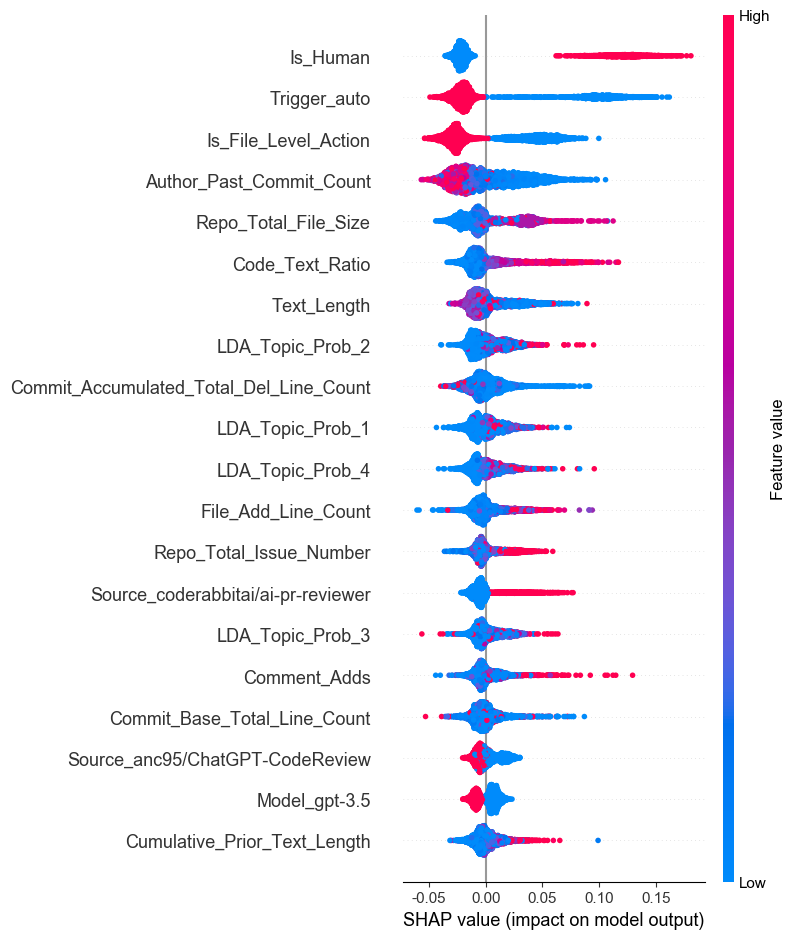
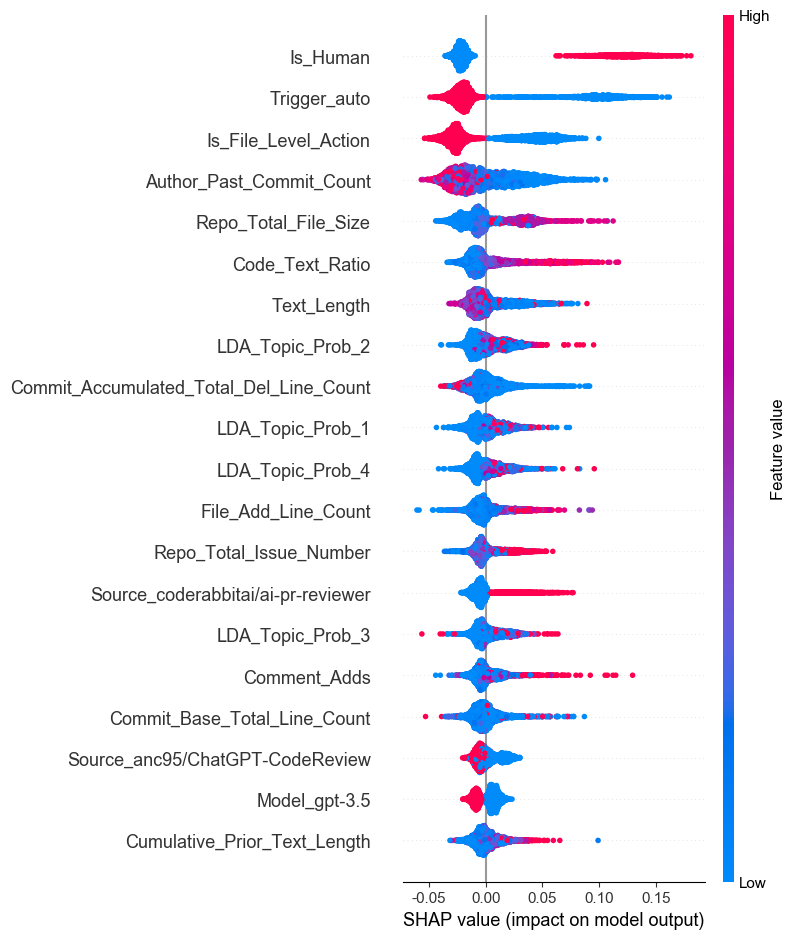
Update AI-Specific Model analysis

diff --git a/address_feature_matrix/build_features.py b/address_feature_matrix/build_features.py
@@ -56,8 +56,10 @@ FEATURE_GROUP_MAPPING = {
         'Source_mattzcarey/code-review-gpt',
         'Trigger_auto',
         'Trigger_manual',
+        'Trigger_Is_Manual',
         'Model_gpt-3.5',
         'Model_gpt-4',
+        'Model_Is_GPT4',
     ]
 }
 
@@ -173,32 +175,48 @@ def encode_trigger_mode(trigger_str):
     else:
         return -1
 
-def build_action_features(df: pd.DataFrame) -> pd.DataFrame:
+def map_model(model):
+    if isinstance(model, str):
+        if model.startswith("gpt-3.5"):
+            return "gpt-3.5"
+        elif model.startswith("gpt-4"):
+            return "gpt-4"
+        elif model == "unknown":
+            return "unknown"
+    return "NA"
+
+def build_action_features(df: pd.DataFrame, use_binary: bool = False) -> pd.DataFrame:
     # 1. Trigger mode one-hot encoding.
-    trigger_encoded = pd.get_dummies(df["Trigger_Mode"].fillna("NA"), prefix="Trigger")
-    # Remove the Trigger_human column (if it exists).
-    if "Trigger_human" in trigger_encoded.columns:
-        trigger_encoded = trigger_encoded.drop(columns=["Trigger_human"])
+    if use_binary:
+        # Binary Mode：0=auto, 1=manual
+        trigger_encoded = (df["Trigger_Mode"] == "manual").astype(int).to_frame(name="Trigger_Is_Manual")
+        print("✅ Trigger Mode: Apply binary conversion (Trigger_Is_Manual)")
+    else:
+        # One-hot 模式：原始逻辑
+        trigger_encoded = pd.get_dummies(df["Trigger_Mode"].fillna("NA"), prefix="Trigger")
+        # Remove the Trigger_human column (if it exists).
+        if "Trigger_human" in trigger_encoded.columns:
+            trigger_encoded = trigger_encoded.drop(columns=["Trigger_human"])
+        print("ℹ Trigger Mode: Apply one-hot encoding")
 
-    # 2. Model configuration one-hot encoding (normalized to gpt-3.5, gpt-4, unknown, NA).
-    def map_model(model):
-        if isinstance(model, str):
-            if model.startswith("gpt-3.5"):
-                return "gpt-3.5"
-            elif model.startswith("gpt-4"):
-                return "gpt-4"
-            elif model == "unknown":
-                return "unknown"
-        return "NA"
 
-    model_group = df["Model_Configured"].apply(map_model)
-    model_encoded = pd.get_dummies(model_group, prefix="Model")
-    # Remove NA (overlaps with Is_Human).
-    if "Model_NA" in model_encoded.columns:
-        model_encoded = model_encoded.drop(columns=["Model_NA"])
-    # Remove NA (overlaps with Is_Human).
-    if "Model_unknown" in model_encoded.columns:
-        model_encoded = model_encoded.drop(columns=["Model_unknown"])
+    # ---- Model Configuration 特征 ----
+    if use_binary:
+        # Binary Mode：Perform 0/1 conversion based solely on mapped gpt-3.5/gpt-4
+        model_group = df["Model_Configured"].apply(map_model)
+        model_encoded = model_group.apply(lambda x: 1 if x == "gpt-4" else 0).to_frame(name="Model_Is_GPT4")
+        print("✅ Model Config: Apply binary conversion (Model_Is_GPT4)")
+    else:
+        # One-hot Mode：
+        model_group = df["Model_Configured"].apply(map_model)
+        model_encoded = pd.get_dummies(model_group, prefix="Model")
+        # Remove Model_NA (overlaps with Is_Human).
+        if "Model_NA" in model_encoded.columns:
+            model_encoded = model_encoded.drop(columns=["Model_NA"])
+        # Remove Model_unknown (overlaps with Is_Human).
+        if "Model_unknown" in model_encoded.columns:
+            model_encoded = model_encoded.drop(columns=["Model_unknown"])
+        print("ℹ Model Config: Apply one-hot encoding")
 
     # 3. Source structure (whether it is human/action/file/patch).
     df["Is_Human"] = (df["Source"] == "Human").astype(int)
@@ -232,7 +250,8 @@ def assemble_feature_matrix(df: pd.DataFrame, enabled_feature_types: dict) -> pd
     if enabled_feature_types.get("file"):
         feature_parts.append(build_file_features(df))
     if enabled_feature_types.get("action"):
-        feature_parts.append(build_action_features(df))
+        use_bin = enabled_feature_types.get("action_use_binary", False)
+        feature_parts.append(build_action_features(df, use_binary=use_bin))
     if enabled_feature_types.get("topic"):
         feature_parts.append(build_topic_feature(df))
 

diff --git a/address_feature_matrix/analyze_feature_importance_with_rf.py b/address_feature_matrix/analyze_feature_importance_with_rf.py
@@ -14,8 +14,7 @@ from sklearn.preprocessing import FunctionTransformer
 import shap
 from scipy.stats import pearsonr
 
-from address_feature_matrix.build_features import assemble_feature_matrix, FEATURE_GROUP_MAPPING
-
+from address_feature_matrix.build_features import assemble_feature_matrix, FEATURE_GROUP_MAPPING, map_model
 
 # --------------- Tokenizer --------------- #
 lemmatizer = WordNetLemmatizer()
@@ -413,6 +412,44 @@ if __name__ == "__main__":
         print(f"Original row count: {len(df)}")
         df = df[df["Source"] != "Human"]
         print(f"Row count after removing Human source: {len(df)}")
+
+        # ========================================================================================================
+        # Verify if Trigger Mode and Model Configuration are suitable for binary encoding
+        # ========================================================================================================
+
+        # --- Verify Trigger Mode ---
+        trigger_unique = df["Trigger_Mode"].dropna().unique()
+        print(f"\n🔍 Verify Trigger_Mode unique values (after filtering Human): {trigger_unique}")
+        trigger_ok = False
+        if set(trigger_unique) <= {"auto", "manual"}:
+            print("✅ Trigger_Mode only contains auto/manual, suitable for binary feature")
+            trigger_ok = True
+        else:
+            print(f"⚠ Trigger_Mode contains extra values: {set(trigger_unique) - {'auto', 'manual'} }, binary feature is not recommended")
+
+        # --- Verify Model Configuration ---
+        model_mapped = df["Model_Configured"].apply(map_model)
+        model_unique = model_mapped.unique()
+        print(f"🔍 Verify Model_Configured mapped unique values (after filtering Human): {model_unique}")
+        # After filtering Human, NA and unknown are usually dropped, leaving only gpt-3.5 and gpt-4
+        model_values_after_drop = set(model_unique) - {"NA", "unknown"}
+
+        model_ok = False
+        if model_values_after_drop <= {"gpt-3.5", "gpt-4"}:
+            print("✅ Model_Configured (after removing NA/unknown) only contains gpt-3.5/gpt-4, suitable for binary feature")
+            model_ok = True
+        else:
+            print(
+                f"⚠ Model_Configured contains extra values: {model_values_after_drop - {'gpt-3.5', 'gpt-4'} }, binary feature is not recommended")
+
+        USE_BINARY_FEATURES = trigger_ok and model_ok
+
+        if USE_BINARY_FEATURES:
+            print("\n🔧 Verification passed: Automatically pass the instruction to the feature builder to use Binary encoding (action_use_binary=True)")
+            enabled_config["action_use_binary"] = True
+        else:
+            print("\n🔧 Verification failed or data contains extra states: Fallback to keep using one-hot encoding (action_use_binary=False)")
+            enabled_config["action_use_binary"] = False
 
     # Perform training with 5-fold CV.
     train_rf_with_tfidf_and_structured_5fold(
